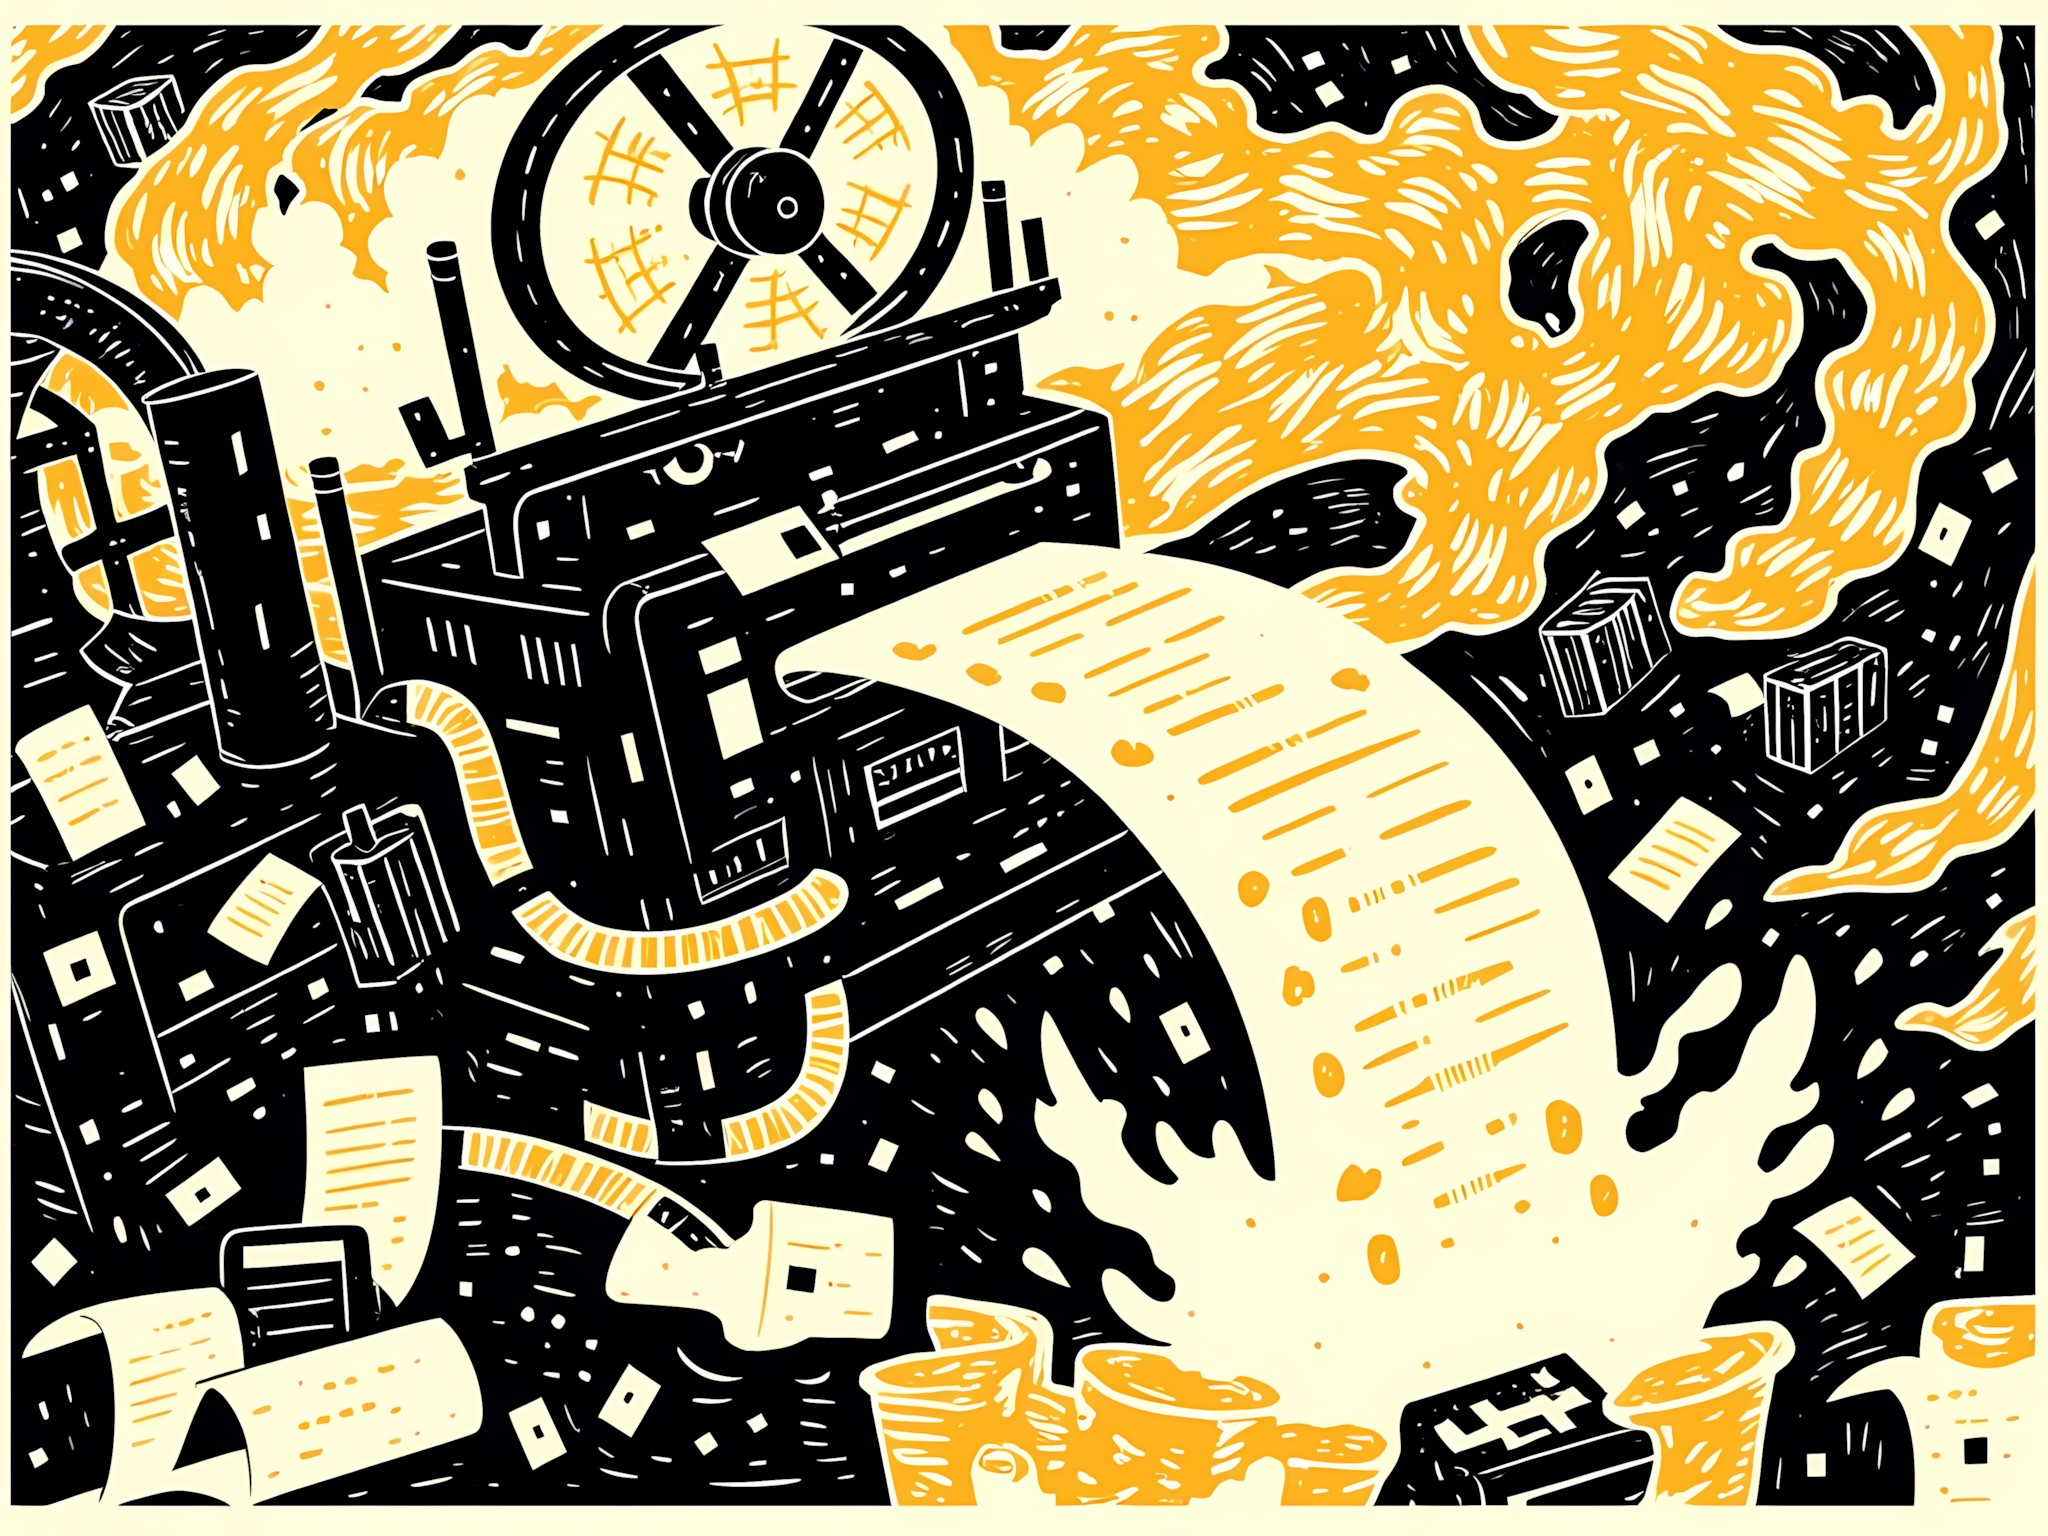
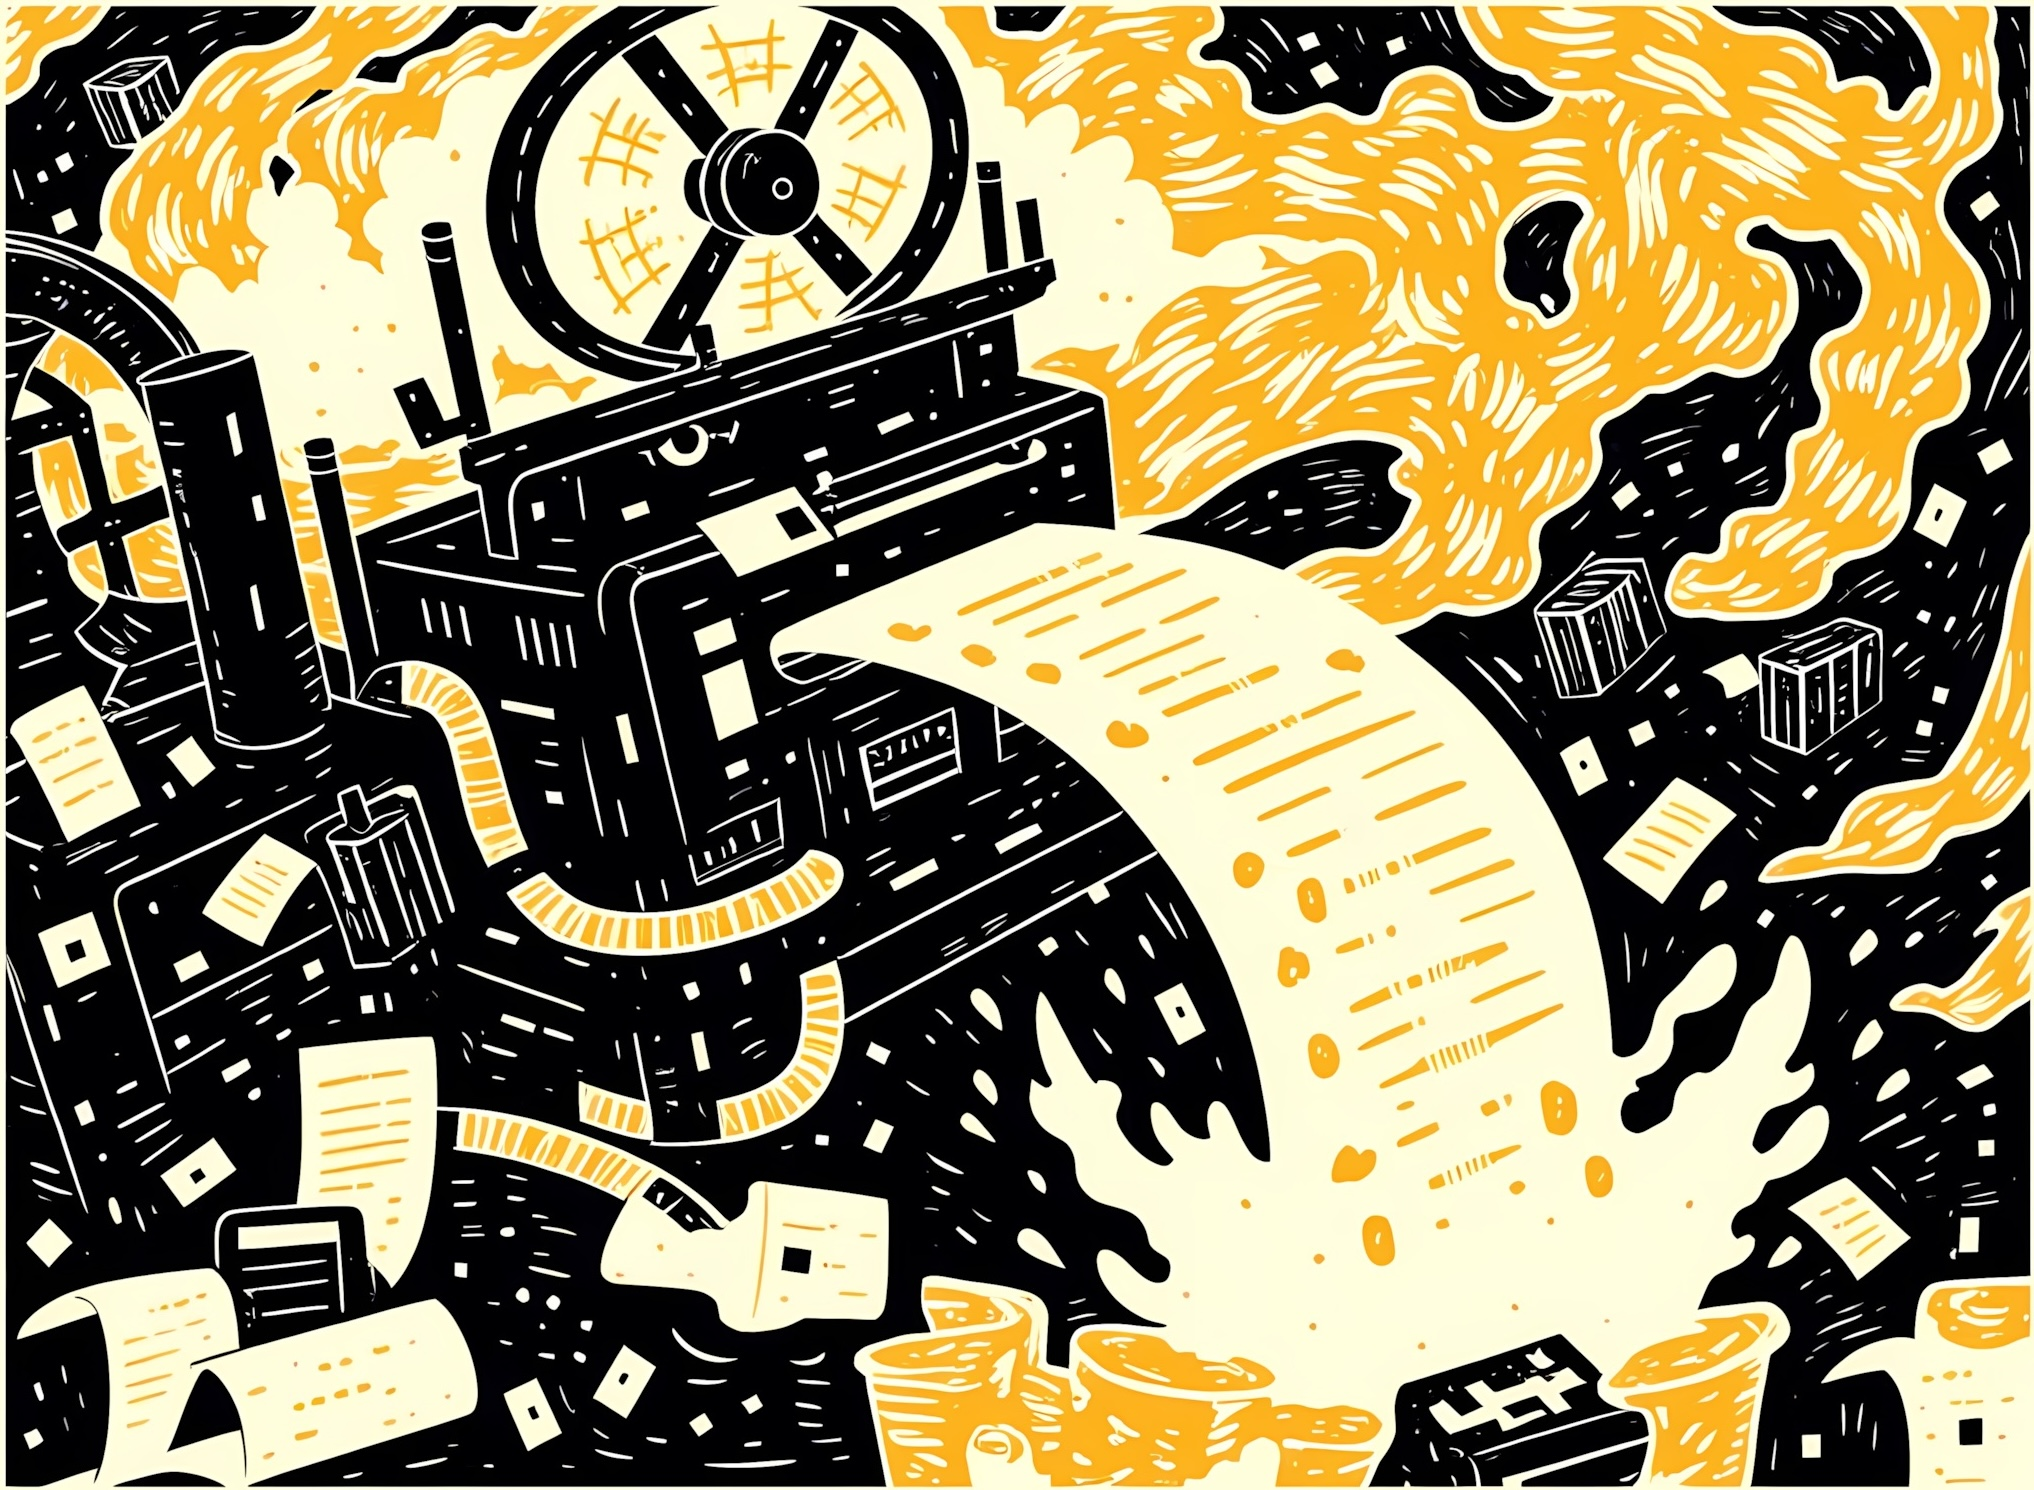
Add final draft of psot

diff --git a/src/components/vf-componenet-rollup/index.scss b/src/components/vf-componenet-rollup/index.scss
@@ -469,6 +469,12 @@ body:has(#kh-css-toggle:checked) {
     font-weight: 400;
     line-height: 1.57;
     margin: var(--kh-stack-margin, 0) 0 var(--kh-text-margin--bottom, 16px) 0;
+
+    &::before {
+      content: "|";
+      margin-right: 0.5rem;
+      margin-left: 0.5rem;
+    }
   }
 
   .kh-summary__date {
